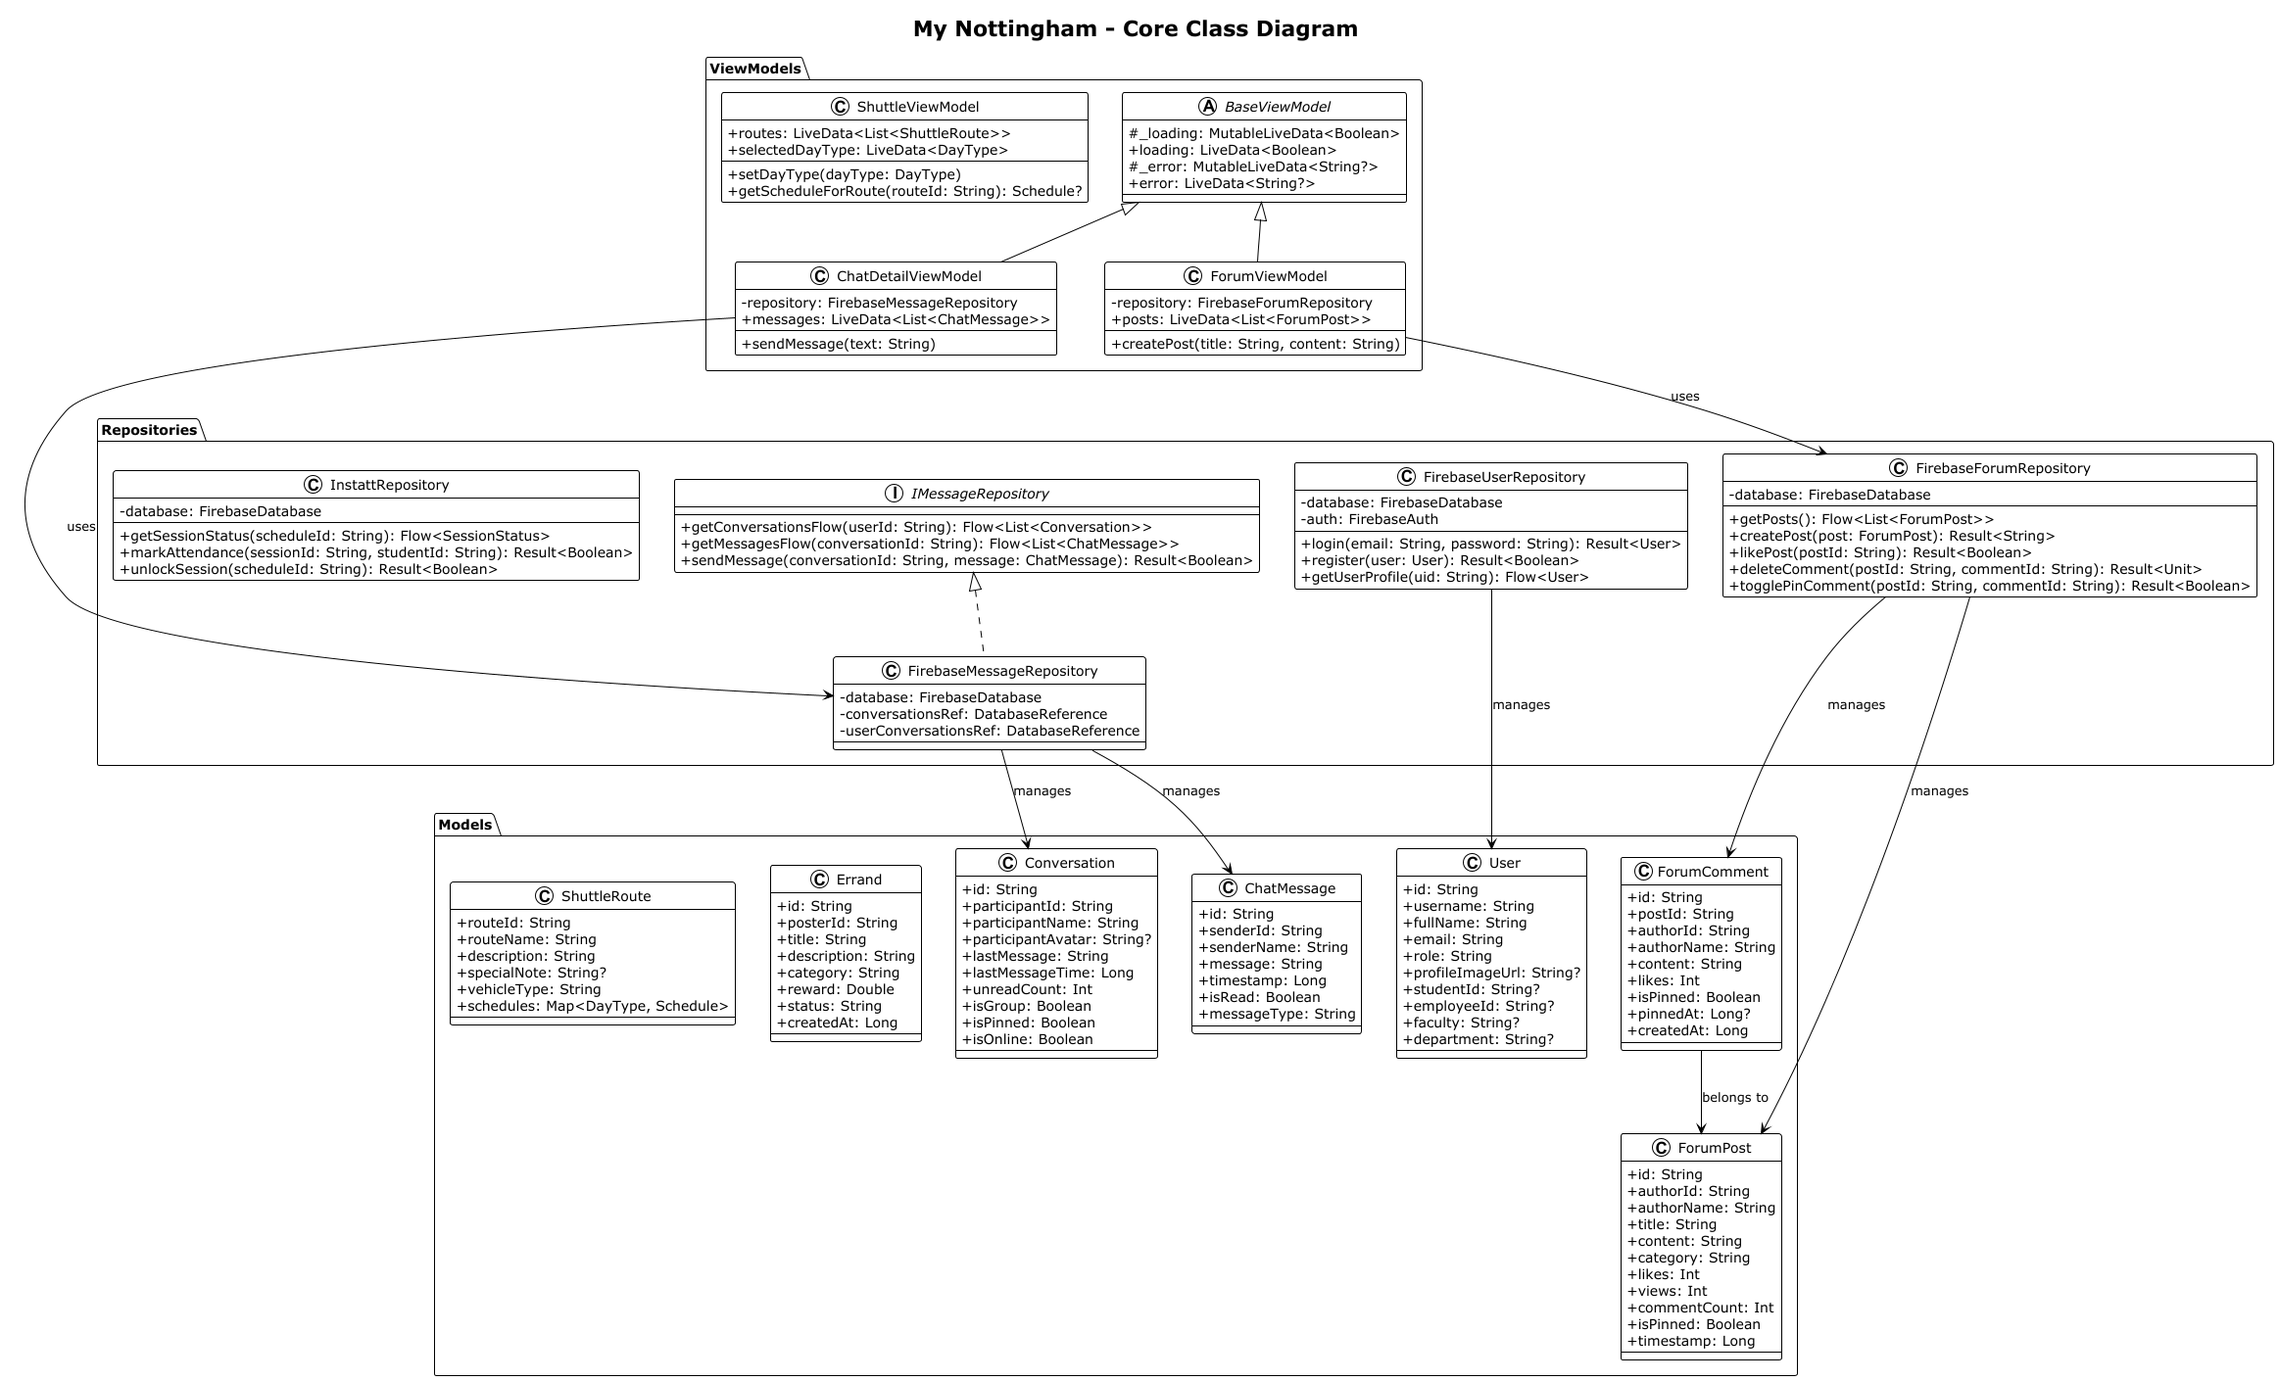
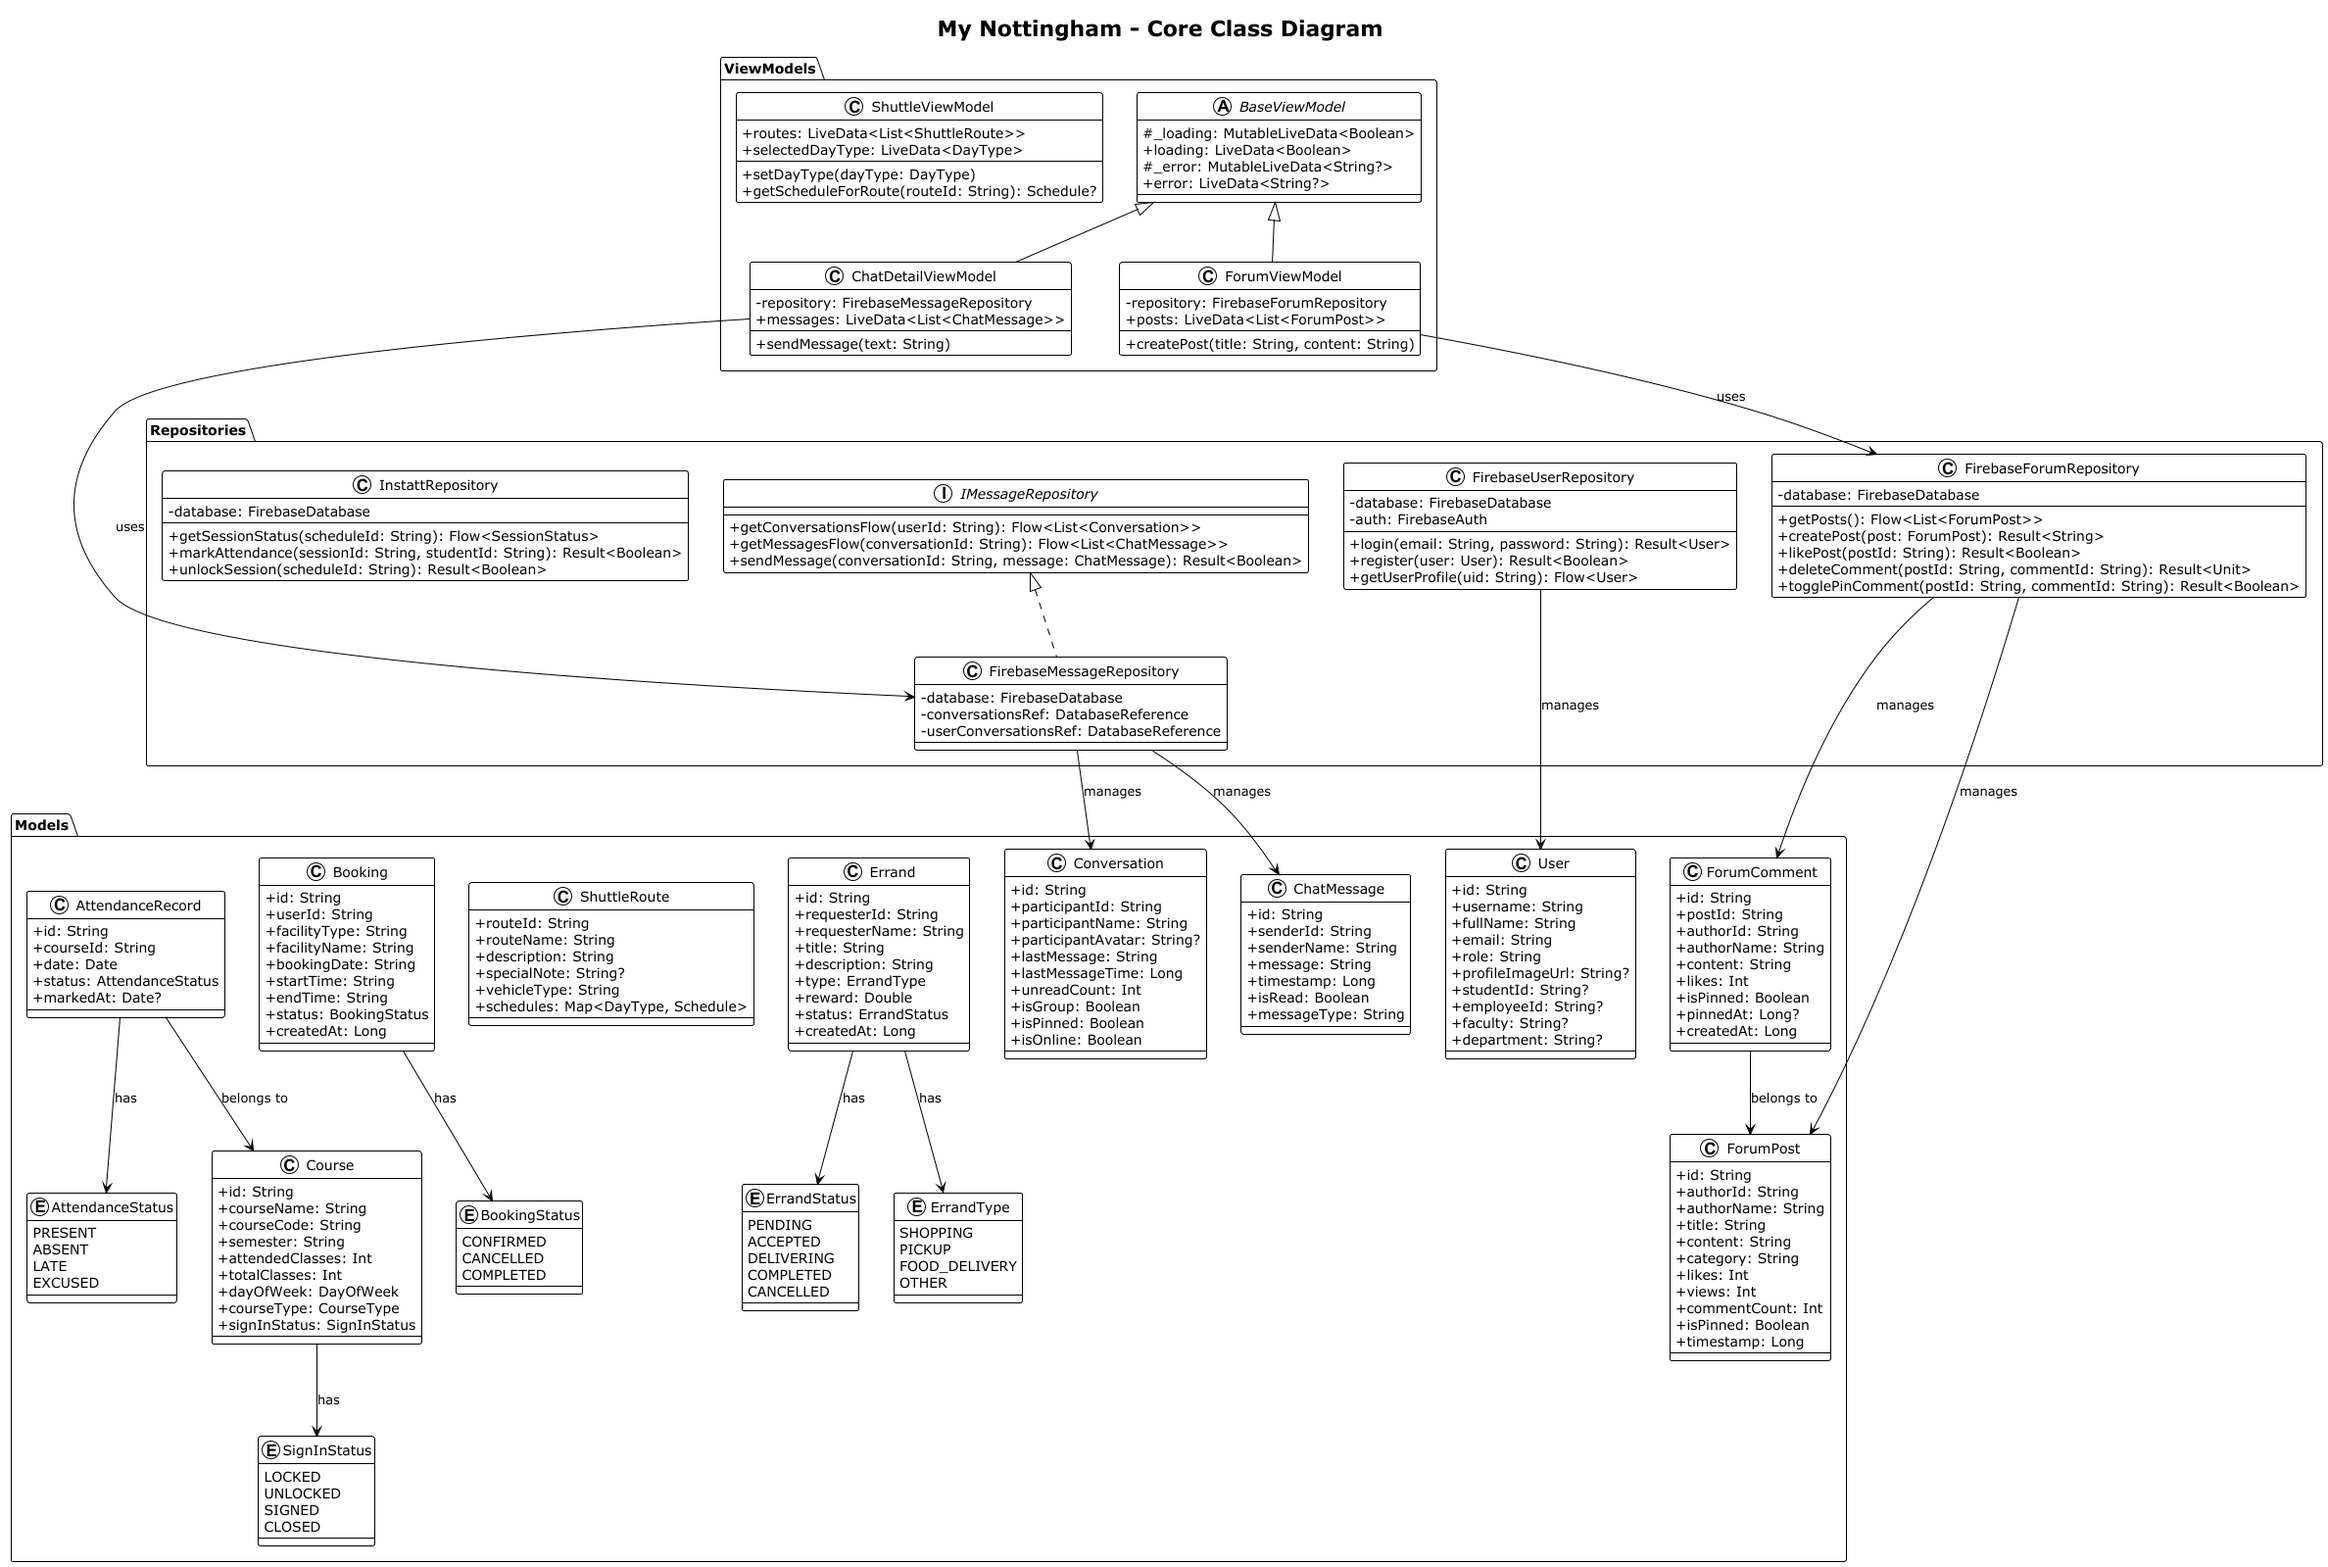
docs: Update class diagram and fix LaTeX Kotlin language error
- Add Booking, Course, AttendanceRecord classes to class diagram
- Add BookingStatus, ErrandType, ErrandStatus, AttendanceStatus, SignInStatus enums
- Define custom Kotlin language for LaTeX listings package
- Regenerate class diagram PNG/SVG files

diff --git a/docs/report/main.tex b/docs/report/main.tex
@@ -38,6 +38,16 @@
     citecolor=blue
 }
 
+% Define Kotlin language for listings (based on Java)
+\lstdefinelanguage{Kotlin}{
+    keywords={abstract, actual, as, break, by, catch, class, companion, const, constructor, continue, data, do, else, enum, expect, false, final, finally, for, fun, if, import, in, interface, internal, is, null, object, open, out, override, package, private, protected, public, return, sealed, super, suspend, this, throw, true, try, val, var, when, while},
+    morecomment=[l]{//},
+    morecomment=[s]{/*}{*/},
+    morestring=[b]",
+    morestring=[s]{"""}{"""},
+    sensitive=true
+}
+
 % Code listing setup
 \lstset{
     basicstyle=\ttfamily\small,
@@ -46,7 +56,8 @@
     backgroundcolor=\color{gray!10},
     keywordstyle=\color{blue},
     commentstyle=\color{green!60!black},
-    stringstyle=\color{orange}
+    stringstyle=\color{orange},
+    showstringspaces=false
 }
 
 % Title
